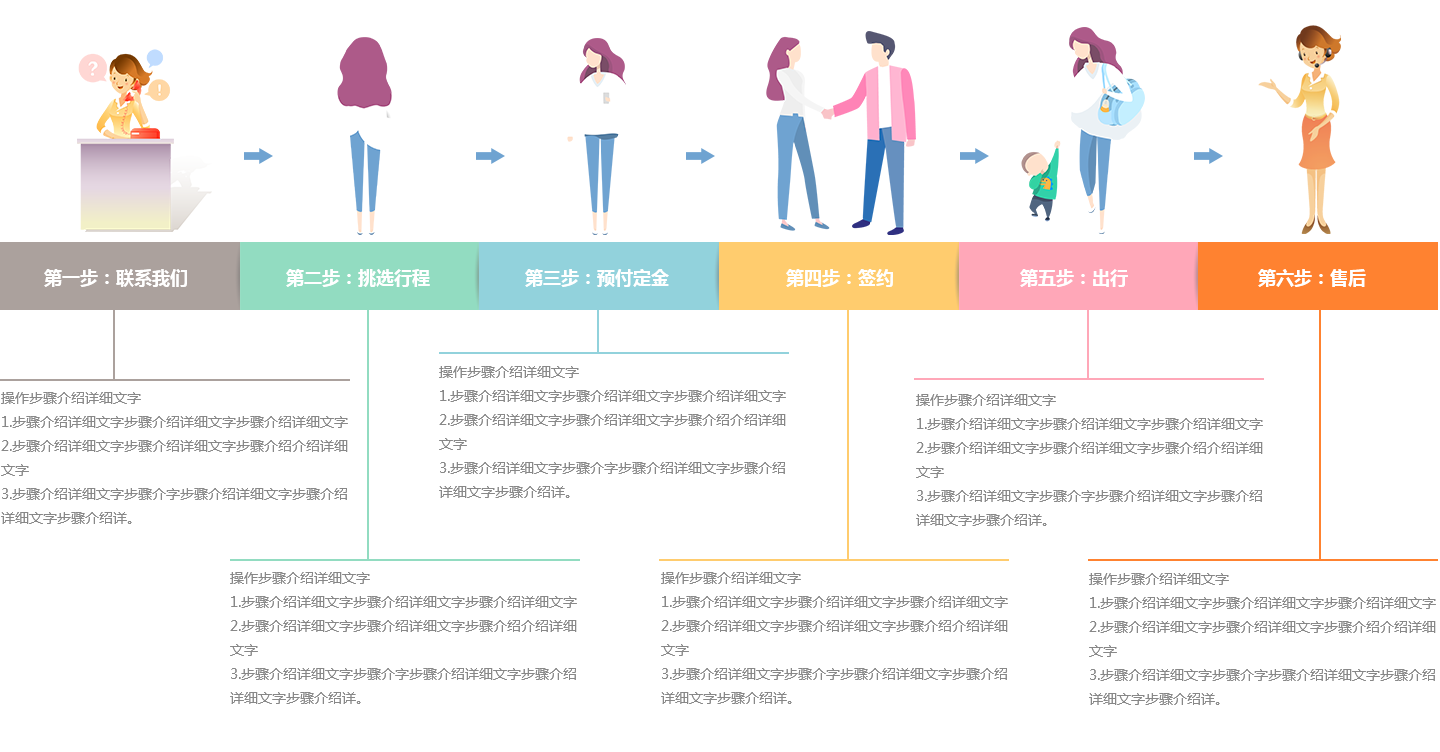
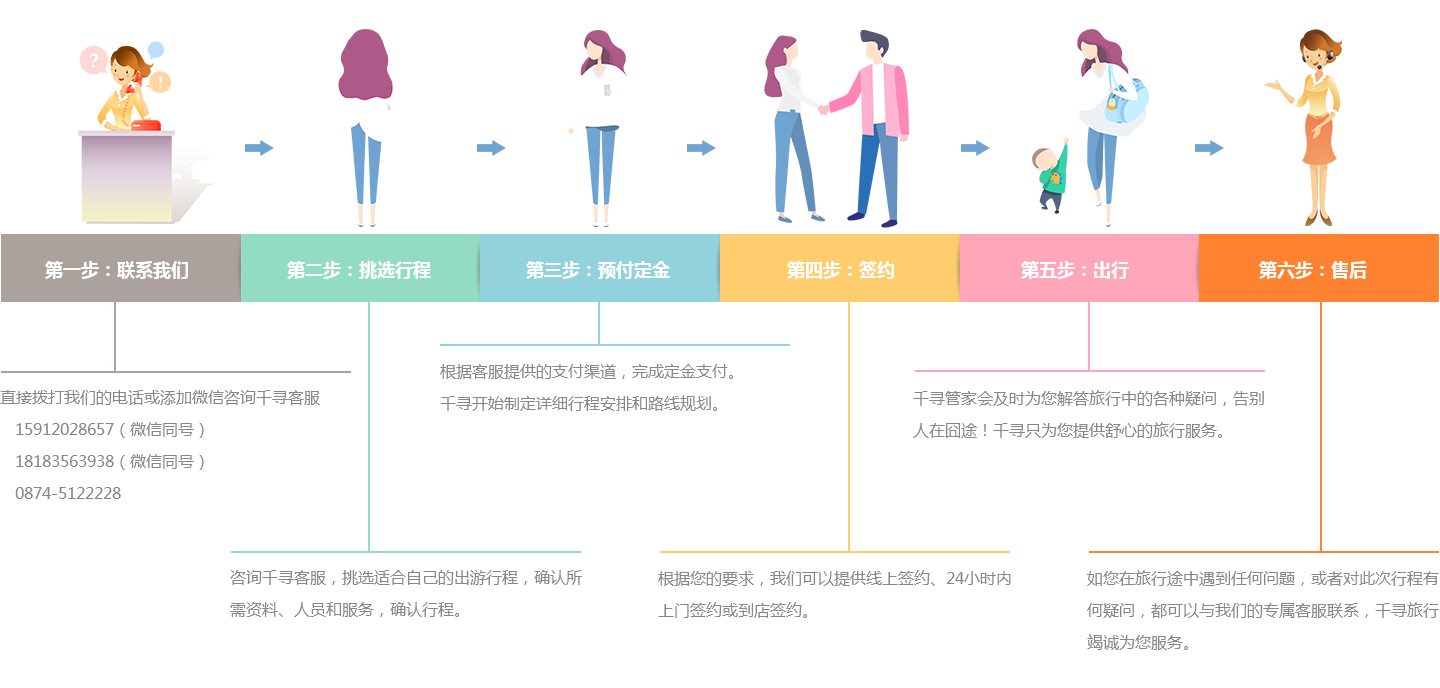
后台首页

diff --git a/src/main/resources/static/pages/dashboard.html b/src/main/resources/static/pages/dashboard.html
@@ -14,107 +14,13 @@
 				<legend>说明：</legend>
 				<div class="layui-field-box">
 					<p>
-						<span class="layui-badge-dot"></span>spring security 全注解式的权限管理
-					</p>
-					<p>
-						<span class="layui-badge-dot"></span>动态配置权限，角色和资源，权限控制到按钮粒度
-					</p>
-					<p>
-						<span class="layui-badge-dot"></span>采用token进行权限校验，禁用session，未登录返回401，权限不足返回403
-					</p>
-					<p>
-						<span class="layui-badge-dot"></span>采用redis存储token及权限信息
+						<span class="layui-badge-dot"></span>千寻旅游管理后台
 					</p>
 				</div>
 			</fieldset>
 		</blockquote>
-		<blockquote class="layui-elem-quote">
-			<fieldset class="layui-elem-field">
-				<legend>内置功能：</legend>
-				<div class="layui-field-box">
-					<p>
-						<span class="layui-badge-dot"></span>用户管理：用户查询、添加用户、修改用户、给用户分配角色
-					</p>
-					<p>
-						<span class="layui-badge-dot"></span>菜单管理：菜单列表、添加菜单、修改菜单、删除菜单、权限配置、菜单图标设置、菜单排序
-					</p>
-					<p>
-						<span class="layui-badge-dot"></span>角色管理：角色查询、添加角色、修改角色、删除角色
-					</p>
-					<p>
-						<span class="layui-badge-dot"></span>代码生成：根据表名生成bean、controller、dao、Mapper.xml、列表页、搜索、分页、新增页、修改页
-					</p>
-					<p>
-						<span class="layui-badge-dot"></span>job集群：创建job、取消job、查询job、下拉搜索spring bean
-					</p>
-					<p>
-						<span class="layui-badge-dot"></span>数据源监控：druid
-					</p>
-					<p>
-						<span class="layui-badge-dot"></span>接口swagger文档
-					</p>
-					<p>
-						<span class="layui-badge-dot"></span>日志查询
-					</p>
-					<p>
-						<span class="layui-badge-dot"></span>邮件管理：发送邮件、搜索邮件
-					</p>
 
-					<p>
-						<span class="layui-badge-dot"></span>文件管理：上传文件、文件列表、文件删除
-					</p>
-					<p>
-						<span class="layui-badge-dot"></span>公告管理：公告未读提醒、发布公告、查询公告、公告阅读人列表
-					</p>
-					<p>
-						<span class="layui-badge-dot"></span>excel下载：自定义sql导出excel、也可在页面展示sql结果数据
-					</p>
-					<p>
-						<span class="layui-badge-dot"></span>字典管理：一些常量字典的维护
-					</p>
-					<p>
-						<span class="layui-badge-dot"></span>个人信息修改
-					</p>
-					<p>
-						<span class="layui-badge-dot"></span>修改密码
-					</p>
-					<p>
-						<span class="layui-badge-dot"></span>头像修改
-					</p>
-				</div>
-			</fieldset>
-		</blockquote>
-		<blockquote class="layui-elem-quote">
-			<fieldset class="layui-elem-field">
-				<legend>其他说明：</legend>
-				</h2>
-				<div class="layui-field-box"
-					style="margin: 0.0px; padding: 10.0px 15.0px; color: #000000; background-color: #f2f2f2;">
-					<p>
-						<span class="layui-badge-dot"></span>日志模块
-					</p>
-					<p>&nbsp;&nbsp;&nbsp; sl4j日志分包：将sql日志、业务日志、异常日志进行了分离，更方便定位问题</p>
-					<p>&nbsp;&nbsp;&nbsp; 日志表：使用aop拦截实现</p>
-					<p>
-						<span class="layui-badge-dot"></span>权限控制：基于token方式，禁用session
-					</p>
-					<p>
-						<span class="layui-badge-dot"></span>对各种不同异常进行了全局统一处理
-					</p>
-					<p>
-						<span class="layui-badge-dot"></span>使用lombok简化java代码，让源码更简洁，可读性高
-					</p>
-					<p>
-						<span class="layui-badge-dot"></span>mybatis未进行二次封装，原滋原味，简单sql采用注解，复杂sql采用Mapper.xml配置
-					</p>
-					<p>
-						<span class="layui-badge-dot"></span>使用了layui的弹出层、菜单、文件上传、富文本编辑、日历、选项卡、数据表格等
-					</p>
-					<p>
-						<span class="layui-badge-dot"></span>表单数据采用bootstrapValidator校验，简单快捷方便
-					</p>
-			</fieldset>
-		</blockquote>
+
 	</div>
 </body>
 

diff --git a/src/main/resources/static/indexAdmin.html b/src/main/resources/static/indexAdmin.html
@@ -64,19 +64,19 @@
 			<ul class="layui-tab-title">
 				<li class="layui-this">
 					<i class="fa fa-dashboard" aria-hidden="true"></i>
-					<cite>Home</cite>
+					<cite>定制消息</cite>
 				</li>
 			</ul>
 			<div class="layui-tab-content" style="min-height: 150px; padding: 5px 0 0 0;">
 				<div class="layui-tab-item layui-show">
-					<iframe src="pages/dashboard.html"></iframe>
+					<iframe src="pages/customized/customizedList.html"></iframe>
 				</div>
 			</div>
 		</div>
 	</div>
 	<div class="layui-footer footer footer-demo" id="admin-footer">
 		<div>
-			<p>xiaoweijiagou@163.com&nbsp;&copy;小威架构</p>
+			<p>xygg@163.com&nbsp;&copy;夕阳果果</p>
 		</div>
 	</div>
 	<div class="site-tree-mobile layui-hide">

diff --git a/src/main/resources/static/admin.html b/src/main/resources/static/admin.html
@@ -43,7 +43,7 @@
 			type : 'get',
 			url : '/users/current?token=' + token,
 			success : function(data) {
-				location.href = '/index.html';
+				location.href = '/indexAdmin.html';
 			},
 			error : function(xhr, textStatus, errorThrown) {
 				var msg = xhr.responseText;
@@ -72,7 +72,7 @@
 				data : $("#login-form").serialize(),
 				success : function(data) {
 					localStorage.setItem("token", data.token);
-					location.href = '/index.html';
+					location.href = '/indexAdmin.html';
 				},
 				error : function(xhr, textStatus, errorThrown) {
 					var msg = xhr.responseText;
